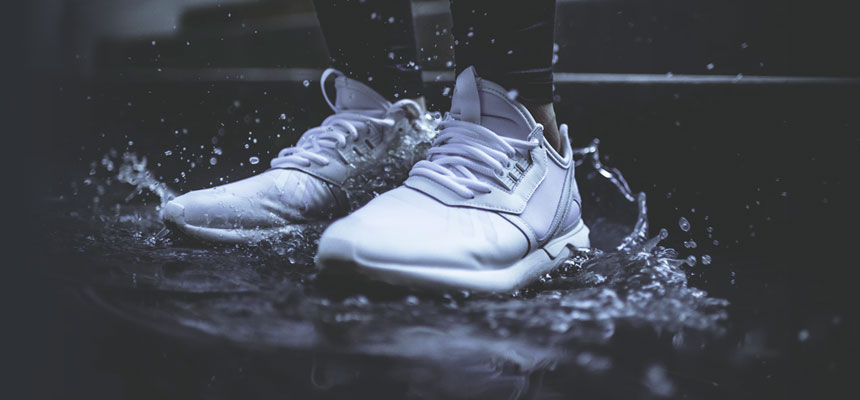
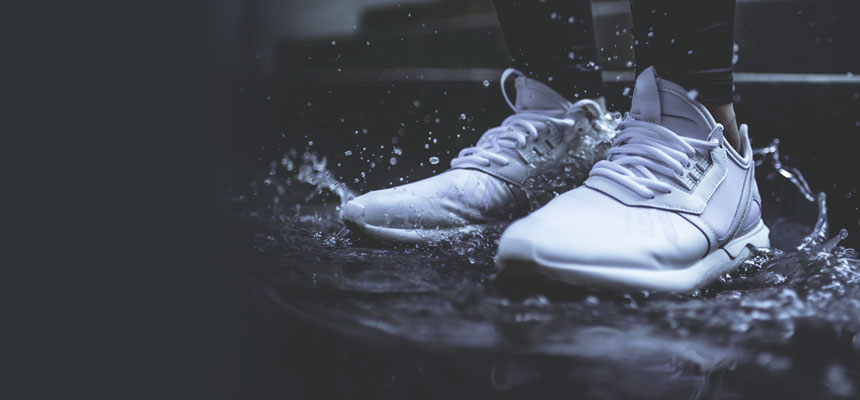
Refactored a bunch. Added new hero image and prof pic

diff --git a/src/Components/HeroUnit/c-HeroUnit.scss b/src/Components/HeroUnit/c-HeroUnit.scss
@@ -1,29 +1,79 @@
 @import 'styles/_custom.scss';
 // This is a hero unit
 .c-herounit {
-    height: 500px;
-    font-size: 1rem;
+    $HERO_UNIT_HEIGHT: 500px;
+
+    height: $HERO_UNIT_HEIGHT;
     position: relative;
-    background-size: cover;
-    background-repeat: no-repeat;
-    background-position: center center;
+    font-size: 1rem;
     transition: height .4s linear;
     display: flex;
     justify-content: center;
     align-items: center;
     font-family: 'Roboto Condensed', sans-serif;
+    overflow: hidden;
 
     &__content {
         color: $textOnDarkColor;
         font-size: 3.75em;
         text-shadow: 1px 1px  rgba(99, 107, 130, 0.57);
         padding: .5em;
+        line-height: 1;
+        z-index: 1000;
 
         @media (max-width: 767px) {
             font-size: 1em;
         }
     }
 
+    &__background {
+        height: $HERO_UNIT_HEIGHT;
+        width: 100%;
+        position: absolute;
+        background-size: cover;
+        background-repeat: no-repeat;
+        background-position: center center;
+        transition: height .4s linear;
+
+        @media (max-width: 767px) {
+            height:400px;
+        }
+        
+        @media (min-width: 1500px) {
+            height:550px;
+        }
+        
+        @media (min-width: 2400px) {
+            height:700px;
+        }
+
+        background-image: url(../../img/homepage/hero-md.jpg);
+
+        @media (min-width: 1200px) {
+            background-image:url(../../img/homepage/hero-lg.jpg)
+        }
+
+        @media (min-width: 768px) and (max-width:1199px) {
+            background-image:url(../../img/homepage/hero-md.jpg)
+        }
+
+        @media (max-width: 767px) {
+            background-image:url(../../img/homepage/hero-sm.jpg)
+        }
+
+        @media (max-width: 480px) {
+            background-image:url(../../img/homepage/hero-xsm.jpg)
+        }
+        
+        @media (min-width: 768px) and (max-width:1199px) and (-webkit-min-device-pixel-ratio:1.5),
+            (min--moz-device-pixel-ratio:1.5),
+            (-o-min-device-pixel-ratio:3/2),
+            (min-device-pixel-ratio:1.5) {
+            background-image:url(../../img/homepage/hero-lg.jpg)
+        }
+    }
+
+    
     @media (max-width: 767px) {
         height:400px;
     }
@@ -34,31 +84,6 @@
     
     @media (min-width: 2400px) {
         height:700px;
-    }
-
-    background-image: url(../../img/homepage/hero-md.jpg);
-
-    @media (min-width: 1200px) {
-        background-image:url(../../img/homepage/hero-lg.jpg)
-    }
-
-    @media (min-width: 768px) and (max-width:1199px) {
-        background-image:url(../../img/homepage/hero-md.jpg)
-    }
-
-    @media (max-width: 767px) {
-        background-image:url(../../img/homepage/hero-sm.jpg)
-    }
-
-    @media (max-width: 480px) {
-        background-image:url(../../img/homepage/hero-xsm.jpg)
-    }
-    
-    @media (min-width: 768px) and (max-width:1199px) and (-webkit-min-device-pixel-ratio:1.5),
-        (min--moz-device-pixel-ratio:1.5),
-        (-o-min-device-pixel-ratio:3/2),
-        (min-device-pixel-ratio:1.5) {
-        background-image:url(../../img/homepage/hero-lg.jpg)
     }
 }
 

diff --git a/src/Components/Showcase/Showcase.jsx b/src/Components/Showcase/Showcase.jsx
@@ -1,6 +1,8 @@
 import React, {Component} from 'react';
 import propTypes from 'prop-types';
 import './o-Showcase.css';
+import Card from '../Card/Card';
+import profile from '../../img/homepage/emo.jpg';
 
 class Showcase extends Component {
 
@@ -10,7 +12,7 @@ class Showcase extends Component {
 
 	render() {
 		return (
-			<div className="o-showcase">
+			<section className="o-showcase">
 				<div className="container">
 					<div className="row">
 						<div className="col-md-6">
@@ -19,10 +21,14 @@ class Showcase extends Component {
 								<h2 className="">Who Am I?</h2>
 							</header>
 							<p className="u-lead">
+An LA native.
+A hearthstone
+
+
 							Before moving to the Bay Area in 2014, I was living in Los Angeles 
 During my four years at UCLA, I also worked as a product
 
-I love biking cooking and I bought a Trek 2.1 Pilot and you'll
+I love cycling, cooking and I bought a Trek 2.1 Pilot and you'll
 You can find me at @cjsub or joonsubtalk@gmail.com
 
 
@@ -32,11 +38,28 @@ You can find me at @cjsub or joonsubtalk@gmail.com
 							</p>
 						</div>
 						<div className="col-md-6">
-
+							<img src={profile}/>
+						</div>
+					</div>
+					<div className="row">
+						<div className="col-md-4">
+							<Card image="./img/homepage/snow.jpg"
+								text="I sing."
+							 />
+						</div>
+						<div className="col-md-4">
+							<Card image="../../img/homepage/snow.jpg"
+								text="I dance."
+							 />
+						</div>
+						<div className="col-md-4">
+							<Card image="c"
+								text="I lie."
+							 />
 						</div>
 					</div>
 				</div>
-			</div>
+			</section>
 		);
 	}
 }

diff --git a/src/Components/Header/Header.jsx b/src/Components/Header/Header.jsx
@@ -1,21 +1,60 @@
-import React from 'react';
+import React, {Component} from 'react';
+import debounce from 'debounce';
 import './c-Header.css';
 
-const Header = (props) => (
-	<header className="o-header">
-		<div className="o-header__content">
-			<div className="container">
-				<div className="row">
-					<div className="col-sm-6">
-						Joonsub.com
-					</div>
-					<div className="col-sm-6">
-						Who What When
+class Header extends Component {
+
+	constructor(props){
+		super(props);
+		
+		
+		this.state = {
+			scrollHeight: 0,
+			stickyHeader: false,
+			SOME_MAX_HEIGHT: 100
+		}
+
+		this.handleScroll = this.handleScroll.bind(this);
+		this.updateHeader = this.updateHeader.bind(this);
+	}
+	
+    componentDidMount(){
+		window.addEventListener('scroll', this.handleScroll);
+	}
+	
+    componentWillUnmount() {
+		window.removeEventListener('scroll', this.handleScroll);
+    }
+	
+    handleScroll() {
+		debounce(this.updateHeader(), 200);
+	}
+
+	updateHeader() {
+		this.setState({scrollHeight: window.scrollY})
+		console.log(this.state.scrollHeight);
+		if (this.state.scrollHeight > this.state.SOME_MAX_HEIGHT)
+			console.log('go');
+	}
+	
+	render(){
+		return (
+			<header className="o-header">
+				<div className="o-header__content">
+					<div className="container">
+						<div className="row">
+							<div className="col-sm-6">
+								Joonsub.com
+							</div>
+							<div className="col-sm-6">
+								Who What When
+							</div>
+						</div>
 					</div>
 				</div>
-			</div>
-		</div>
-	</header>
-);
+			</header>
+		)
+	}
+};
 
 export default Header;

diff --git a/src/Components/HeroUnit/HeroUnit.jsx b/src/Components/HeroUnit/HeroUnit.jsx
@@ -15,6 +15,9 @@ class HeroUnit extends Component {
     }
 
     componentDidMount(){
+
+        window.addEventListener('scroll', this.handleScroll);
+
         fetch('http://www.joonsub.com/site/wordpress/wp-json/wp/v2/pages/4')
         .then(response => {
             if (!response.ok) {
@@ -43,9 +46,11 @@ class HeroUnit extends Component {
     render() {
         return (
             <div className="c-herounit">
-                <div className="c-herounit__content">  
+                <div className="c-herounit__content container">  
                     Make an Impression.<br/>
                     Design the future.
+                </div>
+                <div className="c-herounit__background">
                 </div>
             </div>
         );

diff --git a/src/Components/Card/Card.jsx b/src/Components/Card/Card.jsx
@@ -1,20 +1,17 @@
-import React, {Component} from 'react';
-import propTypes from 'prop-types';
+import React from 'react';
+import PropTypes from 'prop-types';
 import './o-Card.css';
 
-class Card extends Component {
+const Card = (props) => (
+    <div className="o-card">
+        <div className="o-card__image"><img src={props.image}/></div>
+        <div className="o-card__text">{props.text}</div>
+    </div>
+);
 
-    constructor(props) {
-        super(props);
-    }
+Card.propTypes = {
+    image: PropTypes.string,
+    text: PropTypes.string
+};
 
-    render() {
-        return (
-            <div className="o-card">
-                {}
-            </div>
-        );
-    }
-}
-
-export default Showcase;
+export default Card;

diff --git a/src/App.js b/src/App.js
@@ -14,13 +14,13 @@ class App extends Component {
     return (
       <div className="o-app">
         <Header />
-        <section className="o-app__content">
+        <div className="o-app__content">
           <HeroUnit name="something" />
-          <Services />
           <Showcase />
           <Divider />
+          <Services />
           <Infobar info="Say Something here!" />
-        </section>
+        </div>
         <Footer/>
       </div>
     );

diff --git a/src/Components/Card/o-Card.scss b/src/Components/Card/o-Card.scss
@@ -4,4 +4,19 @@
  */
 .o-card {
 	background-color: $backgroundColor;
+	max-width: 100%;
+    overflow: hidden;
+	box-shadow: 0 10px 50px 0 rgba(0,0,0,.1);
+	
+	&__image {
+		height: 200px;
+		width: 100%;
+	}
+
+	&__text {
+		height: 300px;
+		display: flex;
+		align-items: center;
+		justify-content: center;
+	}
 }

diff --git a/src/Components/Footer/Footer.jsx b/src/Components/Footer/Footer.jsx
@@ -44,7 +44,7 @@ class Footer extends Component {
 					</div>
 				</div>
 				<div className="c-footer__copyright">
-					Joonsub.com &copy; {this.state.year}
+					Copyrights &copy; {this.state.year} All Rights Reserved by Joonsub.com.
 				</div>
 			</footer>
 		);

diff --git a/src/styles/_custom.scss b/src/styles/_custom.scss
@@ -1,3 +1,8 @@
 @import 'styles/_colors.scss';
 @import 'styles/_utilities.scss';
 @import 'styles/_font.scss';
+
+/* globals */
+section {
+    padding: 2rem 0;
+}

diff --git a/src/styles/_utilities.scss b/src/styles/_utilities.scss
@@ -10,7 +10,7 @@
  * spacing
  */
 .u-baseMarginSpacing {
-    margin: 1rem 0;
+    margin: 1rem 0 !important;
 }
 
 .u-doubleMarginSpacing {
